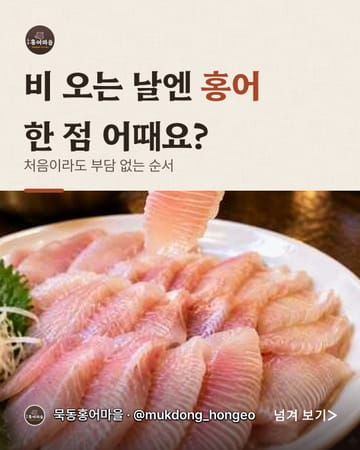
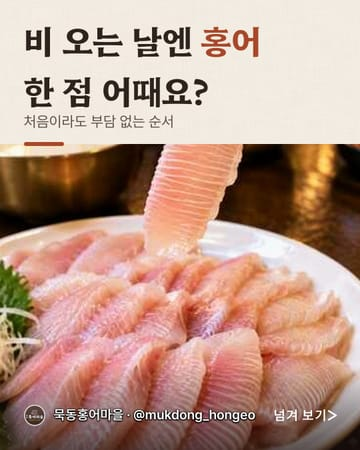
사진 키우기 1번 매거진: 표지 60→68%(위 로고 빼고 제목을 올림), 마지막 장 54→70%(명함 판 대신 저장 알약)

diff --git a/src/features/images/styles/photoLooks.ts b/src/features/images/styles/photoLooks.ts
@@ -2,12 +2,13 @@ import sharp, { type OverlayOptions } from "sharp";
 import { croppedPhoto, finishPhoto, svgLayer, textLayer } from "../render/primitives";
 import { shadowLayer, textureLayer } from "../decor";
 import { emphasisOf, snap, type StyleContent } from "./shared";
-import { MARGIN, SANS, SANS_BOLD, TITLE_SERIF, type TrackSurface, fitLines, folioMark, footerRow, logoMark, shortLines, storeCardBlock } from "./trackKit";
+import { MARGIN, SANS, SANS_BOLD, TITLE_SERIF, type TrackSurface, fitLines, folioMark, footerRow, logoMark, saveChip, shortLines, storeCardBlock } from "./trackKit";
 import type { TrackLook } from "./trackLooks";
 import { renderPhotoLookRetro } from "./photoLooksRetro";
 
 // 사진 중심의 추가 모양(사장님 지적 2026-10-12: 게시물마다 같은 템플릿). slide.variant로 고른다(0은 photoFocus.ts의 기본 모양).
 //   1 매거진 : 표지는 종이 위쪽에 큰 명조 제목, 아래로 사진이 화면 끝까지. 본문은 위쪽 사진(가장자리까지) + 아래 종이에 글.
+//              마지막 장도 본문과 같고 장 번호 자리에 "저장해 두고 다시 보세요" 알약(가게 명함 판 없이 사진 65% 이상).
 //   2 반반   : 사진과 주제 색 판을 위아래로 나눈다. 본문은 장마다 사진 위/아래를 바꿔 넘길 때 리듬이 생기게.
 //   3 숙성 라벨·도장 : 꽉 찬 사진 + 인주색 둥근 도장(키워드·가게 이름), 본문은 No.02 꼬리표.
 //   4 삼합 순서 카드 : 큰 원 번호 + 제목, 둥근 사진, 진행 점. 먹는 순서처럼 단계가 있는 이야기용.
@@ -25,12 +26,13 @@ const finish=(background:string,layers:OverlayOptions[])=>sharp({create:{width:W
 // ── 1 매거진 ──────────────────────────────────────────────────────────────────────────
 async function magazineCover(photo:Buffer,content:StyleContent,look:TrackLook):Promise<Buffer> {
   const paper=look.light;
-  const LOGO=96,TOP=MARGIN;
+  // 위쪽 로고는 빼고(바닥글에 로고가 있다) 제목을 바로 올려 사진이 화면의 65% 이상 되게 한다.
+  const TOP=MARGIN;
   const title=await titleOf(content,paper.ink,paper.accent,[100,92,86,80,74]);
   const sub=content.subline?await lineOf(content.subline,paper.dim,44):null;
-  const titleTop=TOP+LOGO+44;
+  const titleTop=TOP+8;
   const textBottom=titleTop+title.layer.info.height+(sub?22+sub.info.height:0);
-  const photoTop=Math.min(760,textBottom+56);
+  const photoTop=Math.min(600,textBottom+48);
   const shot=await finishPhoto(photo,W,H-photoTop,{zoom:1.04});
   const foot=await footerRow({color:"#FFFFFF",ring:paper.ring,cue:true,shadow:true});
   const footTop=H-MARGIN-foot.height;
@@ -40,7 +42,6 @@ async function magazineCover(photo:Buffer,content:StyleContent,look:TrackLook):P
   const texture=await textureLayer("linen",{opacity:.2});
   if(texture)layers.push(texture);
   layers.push(
-    {input:await logoMark(LOGO,paper.ring),left:MARGIN,top:TOP},
     {input:title.layer.data,left:MARGIN,top:titleTop},
     ...(sub?[{input:sub.data,left:MARGIN,top:titleTop+title.layer.info.height+22}]:[]),
     {input:shot,left:0,top:photoTop},
@@ -55,24 +56,26 @@ async function magazineBody(photo:Buffer,content:StyleContent,index:number,look:
   const title=await titleOf(content,paper.ink,paper.accent,[68,64,60,56,52]);
   const line=shortLines(content,1)[0];
   const sub=line?await lineOf(line,paper.dim):null;
-  const folio=await folioMark(index,paper.accent);
-  const card=content.last?await storeCardBlock({logoSize:110,wordmark:true,surface:paper}):null;
-  const foot=card?null:await footerRow({color:paper.dim,cueColor:paper.ink,cue:true});
-  const bottomH=card?card.height:foot!.height;
-  const bottomTop=H-(card?52:MARGIN)-bottomH;
-  const subTop=bottomTop-(card?40:56)-(sub?.info.height??0);
-  const titleTop=(sub?subTop-20:bottomTop-56)-title.layer.info.height;
-  const folioTop=titleTop-24-folio.layer.info.height;
-  const photoH=Math.max(480,folioTop-48);
+  const folio=content.last?null:await folioMark(index,paper.accent);
+  const chip=content.last?await saveChip(paper.chip,paper.chipInk):null;
+  const foot=await footerRow({color:paper.dim,cueColor:paper.ink,cue:!content.last});
+  const bottomTop=H-MARGIN+16-foot.height;
+  const subTop=bottomTop-48-(sub?.info.height??0);
+  const titleTop=(sub?subTop-18:bottomTop-48)-title.layer.info.height;
+  const markH=folio?folio.layer.info.height:chip!.height;
+  const markTop=titleTop-22-markH;
+  const photoH=Math.max(480,markTop-40);
   const shot=await finishPhoto(photo,W,photoH,{zoom:1.03});
   const layers:OverlayOptions[]=[];
   const texture=await textureLayer("linen",{opacity:.2});
   if(texture)layers.push(texture);
-  layers.push({input:shot,left:0,top:0},{input:folio.layer.data,left:MARGIN,top:folioTop},{input:title.layer.data,left:MARGIN,top:titleTop});
+  const placed=foot.place(bottomTop);
+  const markup=`<rect x="0" y="${photoH}" width="${W}" height="8" fill="${paper.accent}"/>`+(folio?folio.svg(MARGIN,markTop):chip!.svg(MARGIN,markTop))+placed.svg;
+  layers.push({input:shot,left:0,top:0},svgLayer(markup));
+  layers.push(folio?{input:folio.layer.data,left:MARGIN,top:markTop}:{input:chip!.layer.data,left:MARGIN+chip!.padX,top:markTop+chip!.padY});
+  layers.push({input:title.layer.data,left:MARGIN,top:titleTop});
   if(sub)layers.push({input:sub.data,left:MARGIN,top:subTop});
-  let markup=`<rect x="0" y="${photoH}" width="${W}" height="8" fill="${paper.accent}"/>`+folio.svg(MARGIN,folioTop);
-  if(card){const placed=card.place(540,bottomTop);markup+=placed.svg;layers.push(svgLayer(markup),...placed.layers);}
-  else{const placed=foot!.place(bottomTop);layers.push(svgLayer(markup+placed.svg),...placed.layers);}
+  layers.push(...placed.layers);
   return finish(paper.bg,layers);
 }
 

diff --git a/src/features/images/styles/trackKit.ts b/src/features/images/styles/trackKit.ts
@@ -124,6 +124,12 @@ export async function folioMark(index:number,color:string,options:{shadow?:boole
 // 원형 로고 → (워드마크) → 계정(설정에 있을 때) → "저장해 두고 다시 보세요" 알약. 가운데 정렬로 cx 기준에 놓는다.
 // 주소·영업시간은 넣지 않는다(확인 안 된 사실). 로고 안의 전화번호는 가게가 직접 쓰는 로고 그대로다.
 export const SAVE_CHIP="저장해 두고 다시 보세요";
+// 마지막 장 "저장해 두고 다시 보세요" 알약 하나(가게 명함 판 없이 사진을 크게 쓰는 모양용). svg(x,y)로 판을 그리고 layer를 (x+padX, y+padY)에 놓는다.
+export async function saveChip(fill:string,ink:string):Promise<{layer:Layer;width:number;height:number;padX:number;padY:number;svg:(x:number,y:number)=>string}> {
+  const layer=await textLayer(SAVE_CHIP,{size:40,color:ink,width:900,height:80,font:SANS_SEMI});
+  const padX=30,padY=12,width=layer.info.width+padX*2,height=layer.info.height+padY*2;
+  return {layer,width,height,padX,padY,svg:(x,y)=>`<rect x="${x}" y="${y}" width="${width}" height="${height}" rx="${height/2}" fill="${fill}"/>`};
+}
 // halo: 로고 뒤에 깔 한 톤 짙은 원(색·로고 밖으로 나오는 폭). 원이 계정 글자에 걸리지 않게 그 폭만큼 아래로 띄운다
 // (예전에는 원을 따로 그려 계정 글자 윗부분이 원 테두리에 잘려 보였다).
 export async function storeCardBlock(options:{logoSize:number;ring?:string;wordmark:boolean;surface:Pick<TrackSurface,"ink"|"dim"|"chip"|"chipInk">;width?:number;halo?:{color:string;pad:number}}):Promise<{height:number;place:(cx:number,top:number)=>{layers:OverlayOptions[];svg:string}}> {
